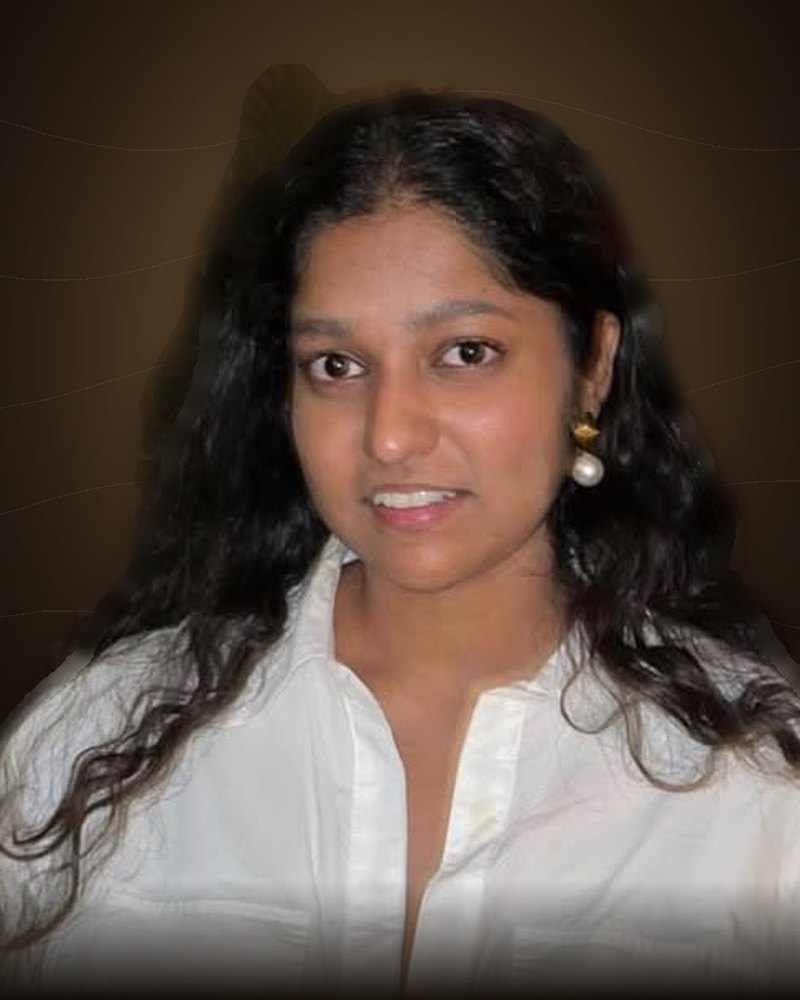
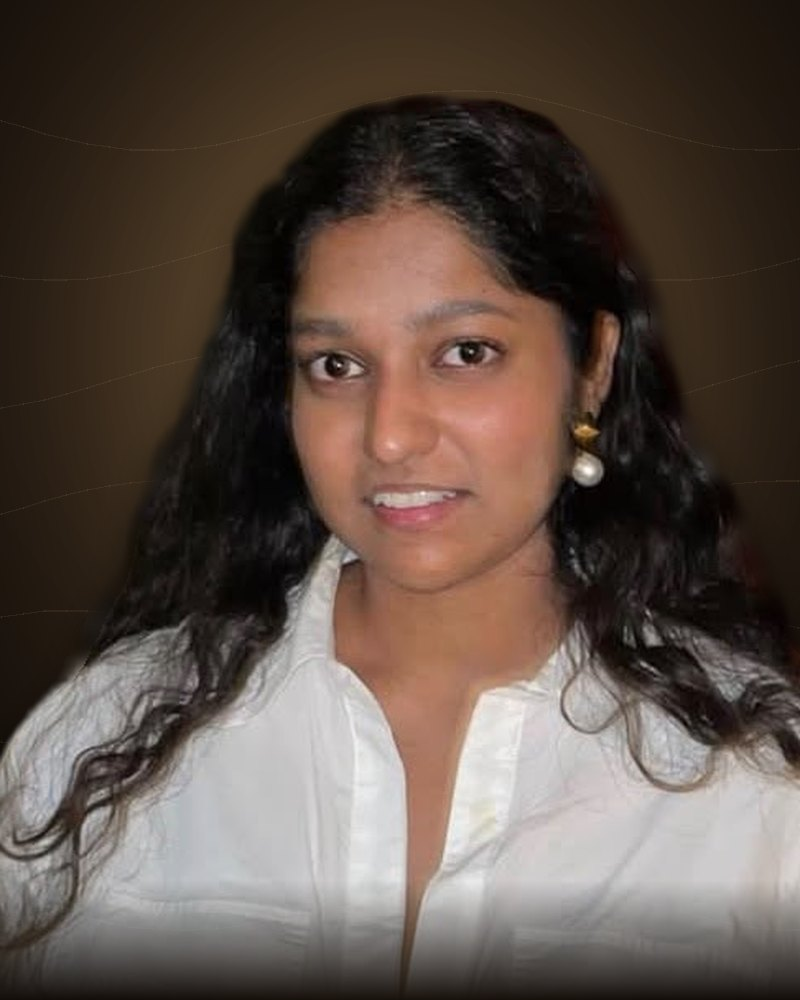
Studio-quality team cut-outs, 19 volunteers by department, self-contained seed
- Team portraits re-cut with BiRefNet-portrait (clean hair edges, no halos,
  bystanders removed) on the branded backdrop
- Volunteers list from the organisers' sheet, grouped by department on the
  Team page (names/departments normalised)
- seed.sql now includes the schema updates, so it works even if a migration
  was skipped

Claude-Session: https://claude.ai/code/session_01H44TnuUaCssMfT23pgecKw

diff --git a/src/app/(site)/team/page.tsx b/src/app/(site)/team/page.tsx
@@ -26,6 +26,15 @@ export default async function TeamPage() {
   const [members, settings] = await Promise.all([getVisible("team"), getSettings()]);
   const volunteers = settings.volunteers ?? [];
   const volunteersPhoto = settings.volunteersPhotoUrl ?? "";
+  // "Name | Department" lines, grouped in the same order as the department panels
+  const deptOrder = TEAM_SECTIONS.organizing;
+  const volunteerGroups = Object.entries(
+    volunteers.reduce<Record<string, string[]>>((acc, line) => {
+      const [name, dept = "Volunteers"] = line.split("|").map((x) => x.trim());
+      if (name) (acc[dept] ??= []).push(name);
+      return acc;
+    }, {}),
+  ).sort(([a], [b]) => (deptOrder.indexOf(a) + 1 || 99) - (deptOrder.indexOf(b) + 1 || 99));
   const hasSample = members.some((m) => m.isSample);
   const command = (["faculty", "leadership"] as TeamGroup[]).flatMap((g) => sectionsFor(g, members).flatMap((s) => s.people));
   const units = sectionsFor("organizing", members);
@@ -93,12 +102,19 @@ export default async function TeamPage() {
             )}
             {volunteers.length > 0 && (
               <Reveal className="mt-10">
-                <p className="eyebrow mb-4">{volunteers.length} volunteer{volunteers.length === 1 ? "" : "s"}</p>
-                <ul className="flex flex-wrap gap-2">
-                  {volunteers.map((v) => (
-                    <li key={v} className="rounded-full border border-ivory/15 bg-night/60 px-4 py-2 text-sm text-ivory/90">{v}</li>
+                <p className="eyebrow mb-5">{volunteers.length} volunteer{volunteers.length === 1 ? "" : "s"}</p>
+                <div className="grid gap-4 sm:grid-cols-2 lg:grid-cols-3">
+                  {volunteerGroups.map(([dept, names]) => (
+                    <div key={dept} className="rounded-2xl border border-ivory/10 bg-night/60 p-5">
+                      <h3 className="font-title text-sm font-bold uppercase tracking-[0.12em] text-gold">{dept}</h3>
+                      <ul className="mt-3 flex flex-wrap gap-2">
+                        {names.map((n) => (
+                          <li key={n} className="rounded-full border border-ivory/15 px-3 py-1.5 text-sm text-ivory/90">{n}</li>
+                        ))}
+                      </ul>
+                    </div>
                   ))}
-                </ul>
+                </div>
               </Reveal>
             )}
           </div>

diff --git a/src/content/festival.ts b/src/content/festival.ts
@@ -32,7 +32,28 @@ export const festivalSeed: FestivalSettings = {
     "Mrugank Karandikar (Marketing) | +91 77386 56645",
   ],
   sponsorContact: "Mrugank Karandikar | +91 77386 56645",
-  volunteers: [], // add names from Admin → Festival settings → Volunteers
+  // "Name | Department" — from the organisers' volunteer list; edit in Admin → Festival settings
+  volunteers: [
+    "Shifa Khan | Creatives",
+    "Pratham Matal | Productions",
+    "Aaryan Chitnis | Events",
+    "Sara Salahuddin | Social Media and Photography",
+    "Sehrish Khan | Creatives",
+    "Adiba Ansari | Creatives",
+    "Khushi | Public Relations",
+    "Kiran Dubey | Social Media and Photography",
+    "Sriyarani Malla | Social Media and Photography",
+    "Shweta Nayak | Events",
+    "Mahashweta Rane | Events",
+    "Moksh Patel | Events",
+    "Riddhima Mishra | Events",
+    "Fazil Siddiqui | Productions",
+    "Gurleen Saini | Creatives",
+    "Tanisha Chotai | Creatives",
+    "Swati Jha | Logistics",
+    "Heer Pandya | Creatives",
+    "Zohra | Hospitality",
+  ],
   volunteersPhotoUrl: "",
   whatsapp: "",
   instagram: "https://www.instagram.com/animaux.mithibai/",

diff --git a/src/components/admin/settings-form.tsx b/src/components/admin/settings-form.tsx
@@ -52,7 +52,7 @@ const SECTIONS: { title: string; fields: Field[] }[] = [
     title: "Volunteers (Team page)",
     fields: [
       { name: "volunteersPhotoUrl", label: "Volunteers group photo", type: "media", accept: "image/*", folder: "team", span: 2, help: "One wide group photo. Landscape works best." },
-      { name: "volunteers", label: "Volunteer names (one per line)", type: "lines", span: 2 },
+      { name: "volunteers", label: "Volunteers (one per line: Name | Department)", type: "lines", span: 2, help: "e.g. Shifa Khan | Creatives — grouped by department on the Team page." },
     ],
   },
   { title: "Participant guidelines", fields: [{ name: "guidelines", label: "Guidelines (one per line)", type: "lines", span: 2 }] },
